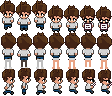
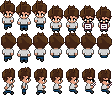
fix: CORRECT frame size 16×32 (not 16×24) — confirmed from pixel-agents source
THE ROOT CAUSE: sprite sheets are 112×96 = 7 cols × 3 rows of 16×32.
We were reading them as 7 cols × 4 rows of 16×24, which sliced frames
at wrong row boundaries — mixing head of one direction with legs of
another. This caused ALL the "head at feet" bugs.

From pixel-agents source (assetLoader.ts):
  "Each PNG has 3 direction rows (down, up, right) × 7 frames (16×32 each)"

Correct layout:
  Row 0 (y=0-31):  walk DOWN  — front face, complete character
  Row 1 (y=32-63): walk UP    — back view, complete character
  Row 2 (y=64-95): walk RIGHT — side view, mirror for left

Changes:
- sprites.ts: frameHeight 24→32, rows 4→3
- OfficeCanvasRenderer: DH 48→64 (32×2), row mapping 0/1/2 (not 0/2/3)
- State indicator: adjusted for 64px sprite height
- Restored original unmodified PNG files (reverted all pixel patches)

diff --git a/src/dashboard/pages/office/OfficeCanvasRenderer.ts b/src/dashboard/pages/office/OfficeCanvasRenderer.ts
@@ -114,15 +114,16 @@ export function drawAgent(ctx: CanvasRenderingContext2D, agent: CanvasAgent, tic
   const isWalking = agent.path && agent.path.length > 0 && agent.pathIndex < agent.path.length;
 
   // INTEGER scale only — 2x. Pixel art MUST use integer scale or it breaks.
-  // 16x24 sprite × 2 = 32x48 drawn pixels. Exactly 1 tile wide, 1.5 tiles tall.
+  // 16x32 sprite × 2 = 32x64 drawn pixels. 1 tile wide, 2 tiles tall.
+  // Frame size confirmed from pixel-agents source: 16×32, 3 rows (down/up/right).
   const SCALE = 2;
   const DW = 16 * SCALE; // 32
-  const DH = 24 * SCALE; // 48
+  const DH = 32 * SCALE; // 64
 
-  // Anchor: sprite drawn so feet sit at bottom of agent's tile.
-  // Agent renderX/Y = tile center = (gridX*32+16, gridY*32+16).
-  // Tile bottom = cy + 16. Sprite bottom = drawY + DH.
-  // So drawY = (cy + 16) - DH = cy + 16 - 48 = cy - 32.
+  // Anchor: sprite feet at tile bottom.
+  // Tile bottom = cy + CELL/2 = cy + 16.
+  // Sprite bottom = drawY + DH.
+  // drawY = (cy + 16) - DH = cy + 16 - 64 = cy - 48.
   const drawX = cx - DW / 2; // centered horizontally
   const drawY = cy - DH + 16; // feet at tile bottom
 
@@ -151,29 +152,28 @@ export function drawAgent(ctx: CanvasRenderingContext2D, agent: CanvasAgent, tic
     const dx = step.x * CELL + CELL / 2 - agent.renderX;
     const dy = step.y * CELL + CELL / 2 - agent.renderY;
 
-    // PNG sheet layout (verified by pixel inspection):
-    //   Row 0: walk down (front face)
-    //   Row 1: activity/sitting (NOT walk up!)
-    //   Row 2: walk up (back view)
-    //   Row 3: walk side (right, mirror for left)
+    // PNG sheet: 3 rows of 16×32 (confirmed from pixel-agents source)
+    //   Row 0: walk DOWN (front face)
+    //   Row 1: walk UP (back view)
+    //   Row 2: walk RIGHT (side, mirror for left)
     if (Math.abs(dx) < 1 && Math.abs(dy) < 1) {
       const f = agent.facing ?? 'down';
-      frameRow = f === 'up' ? 2 : (f === 'left' || f === 'right') ? 3 : 0;
+      frameRow = f === 'up' ? 1 : (f === 'left' || f === 'right') ? 2 : 0;
       mirror = f === 'left';
     } else if (Math.abs(dy) >= Math.abs(dx)) {
-      frameRow = dy > 0 ? 0 : 2; // down=0, up=2
+      frameRow = dy > 0 ? 0 : 1; // down=0, up=1
       frameCol = frame;
     } else {
-      frameRow = 3; // side
+      frameRow = 2; // right (mirror for left)
       mirror = dx < 0;
       frameCol = frame;
     }
   } else if (agent.state === 'typing' || agent.state === 'responding') {
-    frameRow = 1; // activity row
+    frameRow = 0; // use front-facing for typing (no activity row in 3-row sheet)
     frameCol = tick % 2;
   } else {
     const f = agent.facing ?? 'down';
-    frameRow = f === 'up' ? 2 : (f === 'left' || f === 'right') ? 3 : 0;
+    frameRow = f === 'up' ? 1 : (f === 'left' || f === 'right') ? 2 : 0;
     mirror = f === 'left';
   }
 
@@ -230,10 +230,9 @@ export function drawAgent(ctx: CanvasRenderingContext2D, agent: CanvasAgent, tic
 export function drawStateIndicator(ctx: CanvasRenderingContext2D, agent: CanvasAgent, tick: number): void {
   const cx = agent.renderX;
   const cy = agent.renderY;
-  // Position above sprite (2x scale: sprite is 48px tall, feet at cy+16)
-  const DH = 48;
-  const drawY = cy - DH + 16;
-  const baseY = drawY - 8; // above sprite top with gap
+  // Position above sprite (2x scale: 16×32 sprite = 64px tall, feet at cy+16)
+  const spriteTop = cy - 64 + 16; // = cy - 48
+  const baseY = spriteTop - 6;
   const bobOffset = tick % 4 < 2 ? 0 : -1;
 
   switch (agent.state) {

diff --git a/src/dashboard/pages/office/sprites.ts b/src/dashboard/pages/office/sprites.ts
@@ -1026,8 +1026,9 @@ export function clearSpriteCache(): void {
 interface SpriteSheet {
   image: HTMLImageElement;
   frameWidth: number;   // 16px per frame
-  frameHeight: number;  // 24px per frame
+  frameHeight: number;  // 32px per frame (NOT 24 — confirmed from pixel-agents source)
   cols: number;         // 7 columns
+  rows: number;         // 3 rows (down, up, right)
   loaded: boolean;
 }
 
@@ -1080,8 +1081,9 @@ export async function loadSpriteSheets(): Promise<void> {
     const sheet: SpriteSheet = {
       image: img,
       frameWidth: 16,
-      frameHeight: 24,
+      frameHeight: 32,
       cols: 7,
+      rows: 3,
       loaded: false,
     };
     SPRITE_SHEETS.set(`char_${i}`, sheet);
